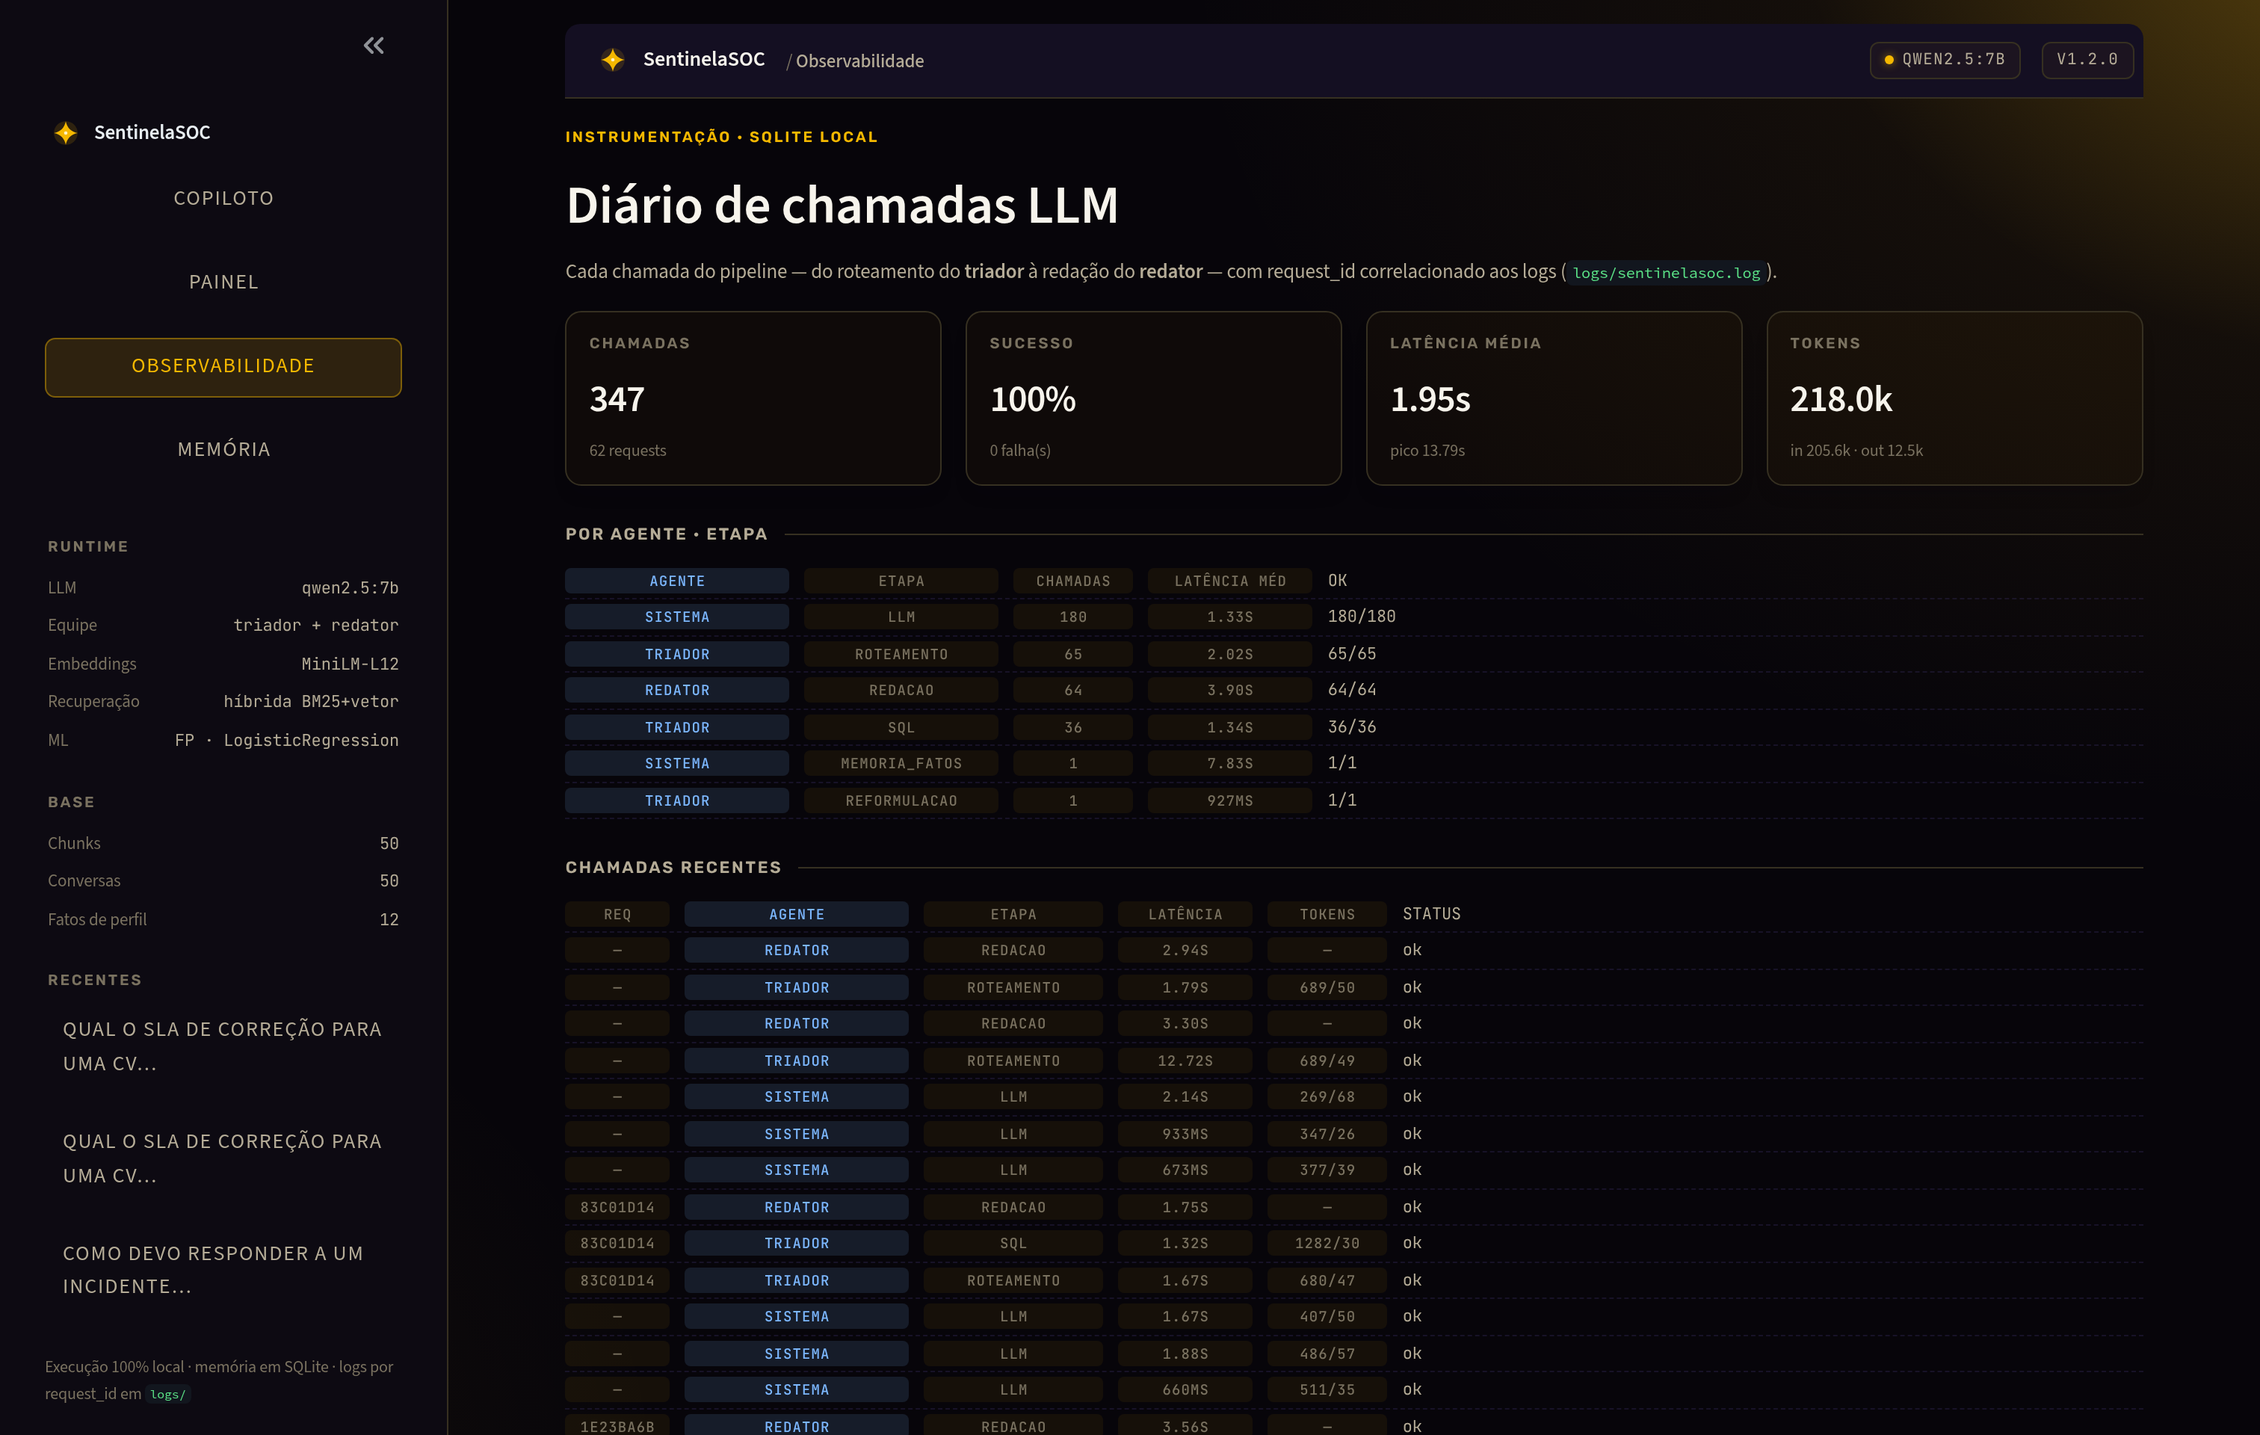
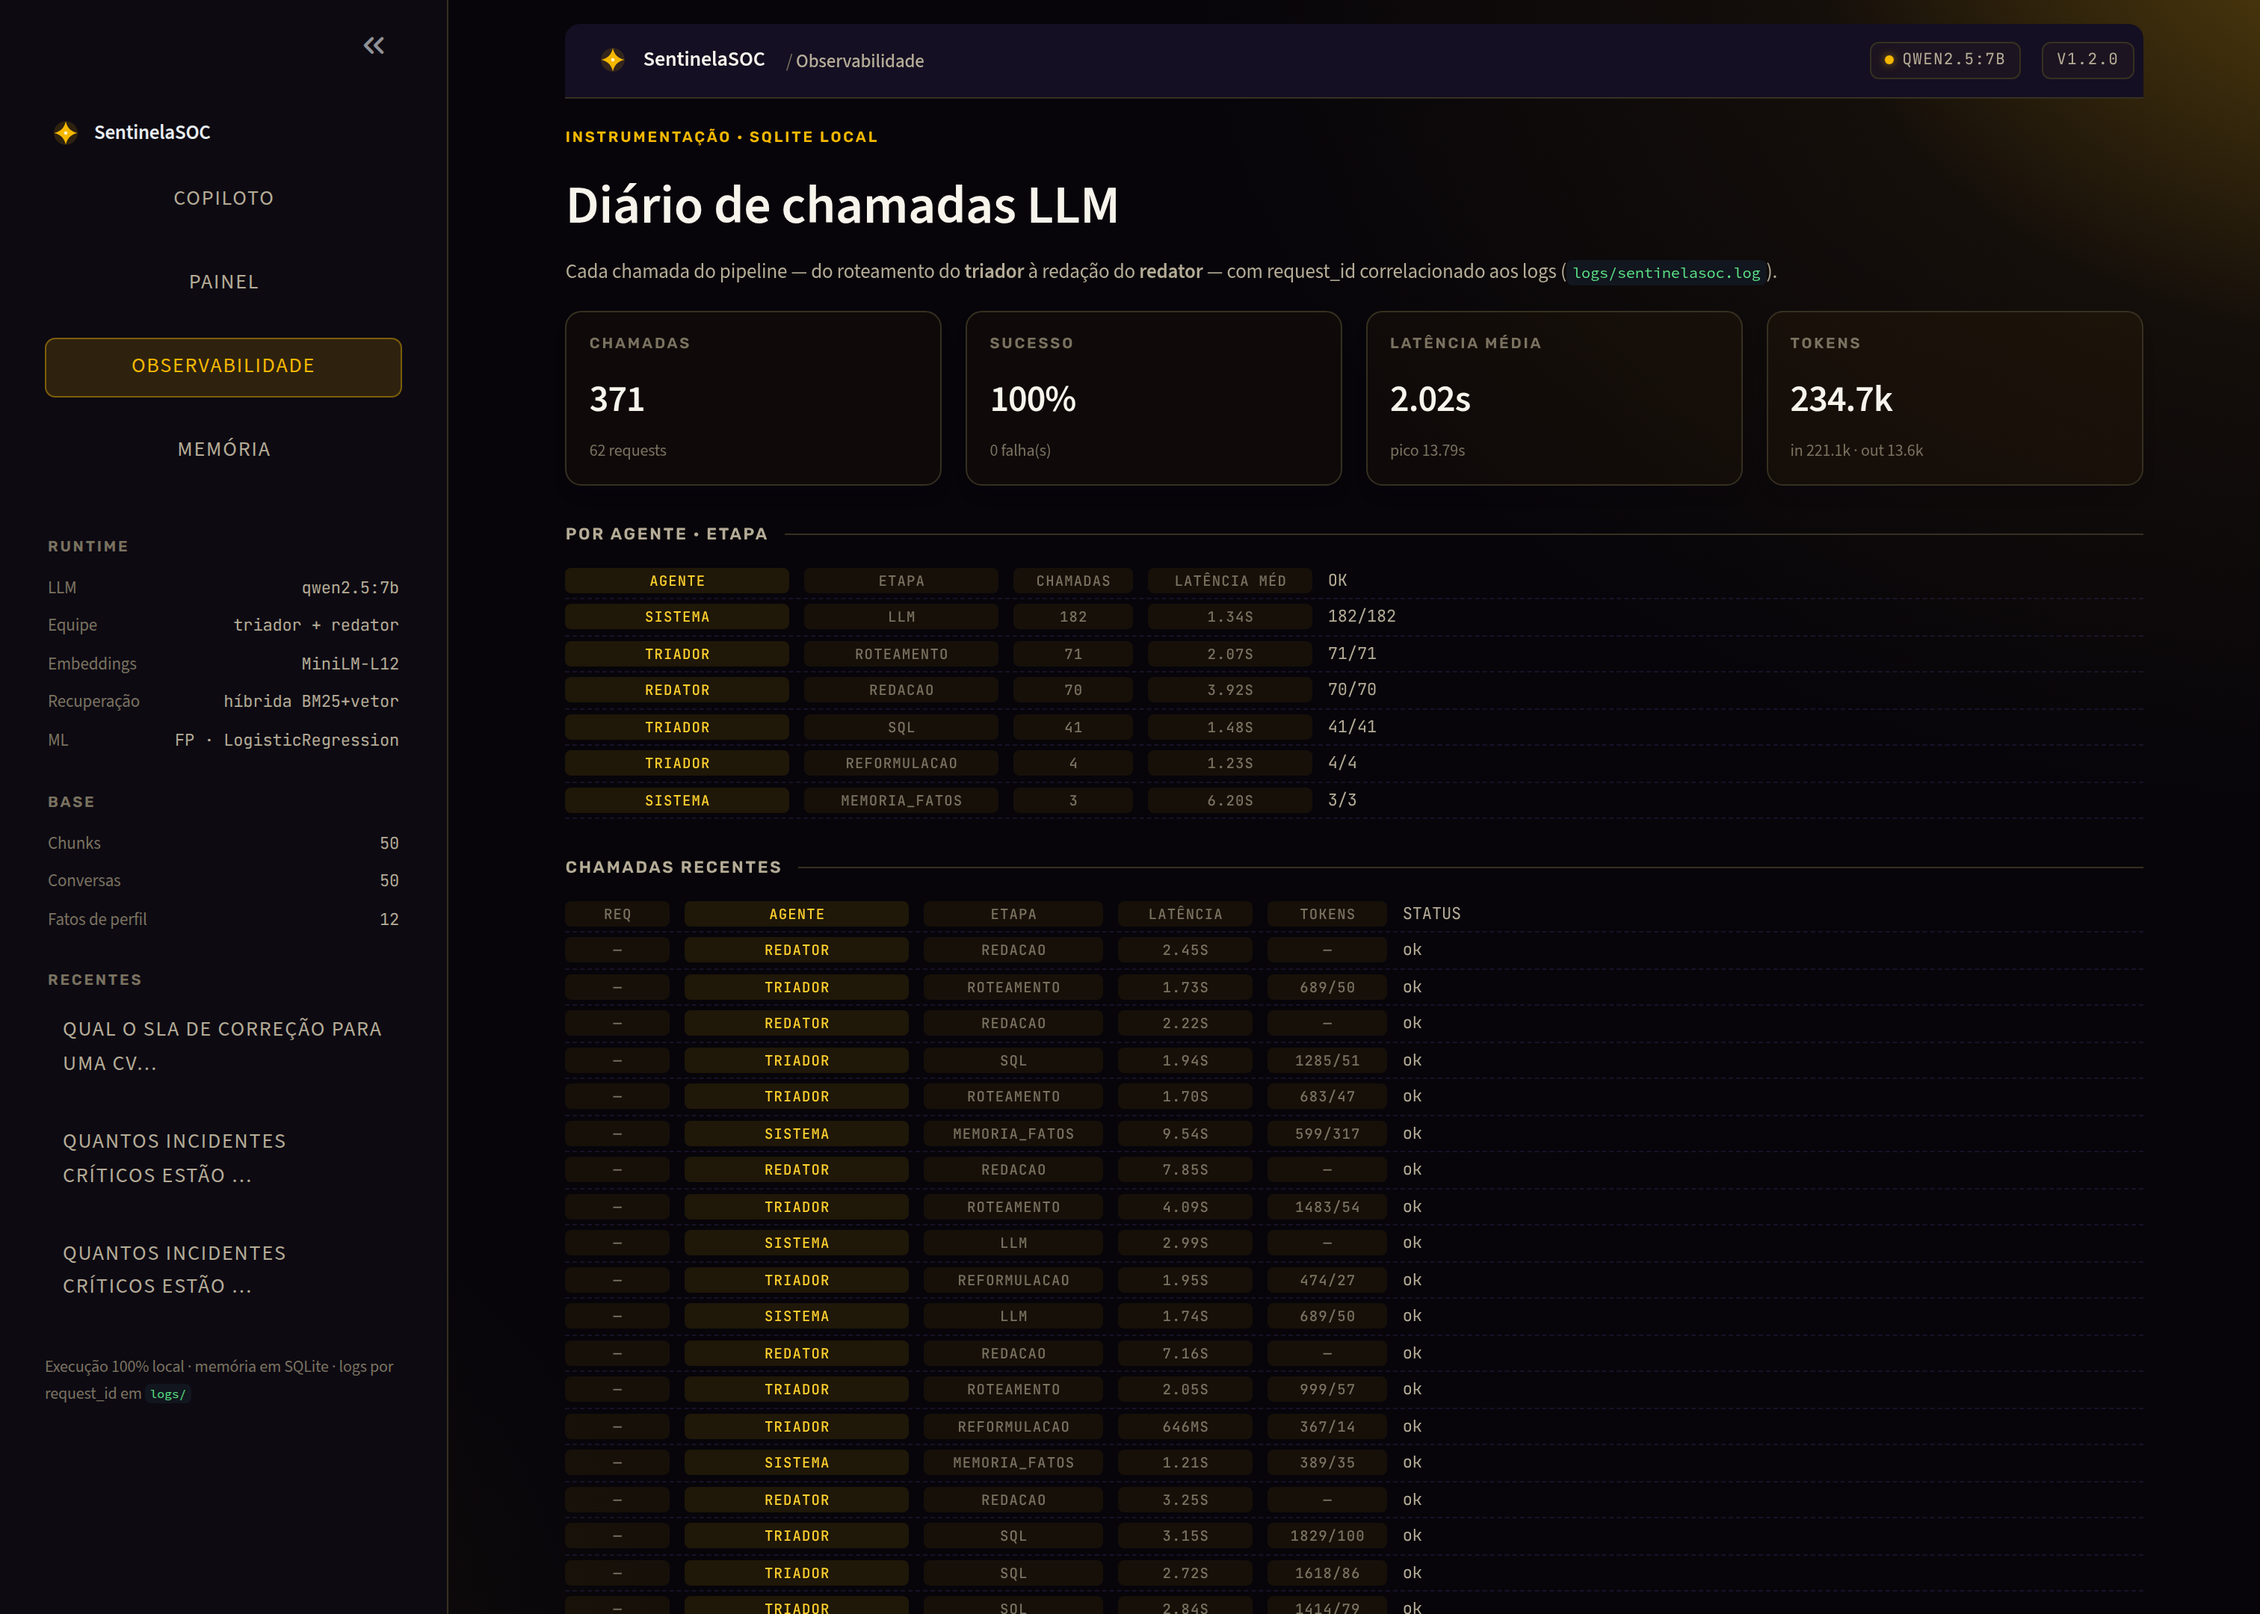
fix(web+assets): per-answer trace ownership, on-brand agent chips, viewport-proven screenshots
- copiloto: AgenteSOC is shared across sessions (cache_resource) — concurrent
  chats raced agente.last_trace, persisting the wrong request's trace in the
  other session. Now the trace list reference is captured right after this
  answer's stream starts and reused for render + persistence.
- shell: tk-agente chips switch from blue to the platform gold family
  (--ouro-hover) — consistent with the SentinelaSOC identity.
- capture_screenshots: screenshots now PROVE the promised elements are inside
  the viewport (bounding-box checks for 'Respondido em', 'Detalhes da
  execução' and the TRIADOR/REDATOR chips) — not merely present in the DOM.
- assets: all three screenshots recaptured (crew trace open, Painel,
  Observabilidade) with the fixes above.

diff --git a/scripts/capture_screenshots.py b/scripts/capture_screenshots.py
@@ -3,9 +3,8 @@
 Uso: ./venv/bin/python scripts/capture_screenshots.py
 Requer: app rodando em http://localhost:8501 e Chrome instalado.
 
-Alem de capturar, ASSERTA que os elementos-chave de cada pagina estao visiveis
-(rastro da crew aberto, painel renderizado, diario com chamadas) — screenshot
-comprovado, nao cego.
+Alem de capturar, PROVA que os elementos-chave estao visiveis no viewport
+(bounding box dentro da area da tela) — screenshot comprovado, nao cego.
 """
 import asyncio
 import sys
@@ -14,10 +13,11 @@ from playwright.async_api import async_playwright
 
 BASE = "http://localhost:8501"
 PERGUNTA = "Qual o SLA de correção para uma CVE com CVSS 9.5 em ativo exposto?"
+LARGURA, ALTURA = 1512, 1080
 
 
 async def capturar(page, caminho: str, deve_conter: list[str]) -> None:
-    """Screenshot + prova textual: todos os textos precisam estar na pagina."""
+    """Screenshot + prova textual (DOM) + prova visual (chips no viewport)."""
     corpo = (await page.content()).lower()
     faltando = [t for t in deve_conter if t.lower() not in corpo]
     if faltando:
@@ -26,11 +26,24 @@ async def capturar(page, caminho: str, deve_conter: list[str]) -> None:
     print(f"ok {caminho} (verificado: {', '.join(deve_conter)})")
 
 
+async def visivel_no_viewport(page, seletor: str, nome: str) -> None:
+    """Garante que o elemento existe, esta renderizado E dentro do viewport."""
+    alvo = page.locator(seletor).first
+    await alvo.wait_for(state="visible", timeout=30_000)
+    caixa = await alvo.bounding_box()
+    if not caixa:
+        raise AssertionError(f"{nome}: sem bounding box")
+    if caixa["y"] < 0 or caixa["y"] + caixa["height"] > ALTURA:
+        fundo = caixa["y"] + caixa["height"]
+        raise AssertionError(f"{nome}: fora do viewport (y={caixa['y']:.0f}, fundo={fundo:.0f})")
+    print(f"visivel no viewport: {nome} (y={caixa['y']:.0f})")
+
+
 async def main() -> None:
     async with async_playwright() as p:
         browser = await p.chromium.launch(channel="chrome", headless=True)
         page = await browser.new_page(
-            viewport={"width": 1512, "height": 960}, device_scale_factor=2
+            viewport={"width": LARGURA, "height": ALTURA}, device_scale_factor=2
         )
 
         # ── 1) Copiloto: pergunta real -> resposta -> rastro da crew aberto ──
@@ -42,14 +55,24 @@ async def main() -> None:
         await page.wait_for_timeout(400)
         await page.keyboard.press("Enter")
         print("pergunta enviada; aguardando resposta do crew...")
-        await page.wait_for_selector("text=Respondido em", timeout=120_000)
+        status = page.locator("text=Respondido em").first
+        await status.wait_for(state="visible", timeout=120_000)
         await page.wait_for_timeout(900)
+        # abre o rastro e rola o ULTIMO chip de agente para dentro da tela
+        # (scroll minimo: status e resumo do expander ficam acima, visiveis)
         expander = page.locator("summary:has-text('Detalhes da execução')").last
         await expander.scroll_into_view_if_needed()
         await expander.click()
         await page.wait_for_timeout(1_200)
-        await page.mouse.wheel(0, 700)
-        await page.wait_for_timeout(800)
+        ultimo_agente = page.locator(".tk-agente").last
+        await ultimo_agente.scroll_into_view_if_needed()
+        await page.wait_for_timeout(900)
+        # prova visual: os tres elementos que o README promete estao NA IMAGEM
+        await visivel_no_viewport(page, "text=Respondido em", "status 'Respondido em'")
+        await visivel_no_viewport(
+            page, "summary:has-text('Detalhes da execução')", "expander 'Detalhes da execução'"
+        )
+        await visivel_no_viewport(page, ".tk-agente", "chip TRIADOR/REDATOR")
         await capturar(
             page,
             "docs/assets/screenshot.png",
@@ -66,6 +89,11 @@ async def main() -> None:
         await page.goto(f"{BASE}/?page=observabilidade", wait_until="domcontentloaded")
         await page.wait_for_selector("text=Diário de chamadas LLM", timeout=60_000)
         await page.wait_for_timeout(1_500)
+        # garante a tabela por agente·etapa dentro da tela
+        painel = page.locator("text=Por agente · etapa")
+        await painel.scroll_into_view_if_needed()
+        await page.wait_for_timeout(600)
+        await visivel_no_viewport(page, ".tk-agente", "coluna agente (Observabilidade)")
         await capturar(
             page,
             "docs/assets/screenshot-observabilidade.png",
@@ -79,6 +107,6 @@ async def main() -> None:
 if __name__ == "__main__":
     try:
         asyncio.run(main())
-    except Exception as exc:  # noqa: BLE001
+    except Exception as exc:
         print(f"FALHOU: {type(exc).__name__}: {exc}", file=sys.stderr)
         sys.exit(1)

diff --git a/src/sentinelasoc/web/copiloto.py b/src/sentinelasoc/web/copiloto.py
@@ -167,8 +167,16 @@ def render() -> None:
             placeholder = st.empty()
             texto = ""
             inicio = time.perf_counter()
+            trace_desta_resposta: list[dict] = []
             try:
+                primeiro = True
                 for chunk in agente.answer(pergunta, history, st.session_state.perfil_fatos):
+                    if primeiro:
+                        # AgenteSOC e compartilhado entre sessoes (cache_resource):
+                        # fixa a referencia do rastro DESTA resposta antes que outra
+                        # sessao concorrente rebinde agente.last_trace.
+                        trace_desta_resposta = agente.last_trace
+                        primeiro = False
                     texto += chunk
                     placeholder.markdown(texto + " ▍", unsafe_allow_html=True)
             except Exception as exc:  # erro visivel para o analista
@@ -185,17 +193,17 @@ def render() -> None:
             )
             placeholder.markdown(texto, unsafe_allow_html=True)
             st.session_state.mensagens.append(
-                {"role": "assistant", "content": texto, "trace": agente.last_trace}
+                {"role": "assistant", "content": texto, "trace": trace_desta_resposta}
             )
             with st.expander("Detalhes da execução", expanded=False):
-                _renderizar_trace(agente.last_trace)
+                _renderizar_trace(trace_desta_resposta)
 
         # persistencia episodica + aprendizado semantico
         if st.session_state.conversa_id is None:
             st.session_state.conversa_id = memory.nova_conversa(pergunta)
         cid = st.session_state.conversa_id
         memory.salvar_mensagem(cid, "user", pergunta)
-        memory.salvar_mensagem(cid, "assistant", texto, agente.last_trace)
+        memory.salvar_mensagem(cid, "assistant", texto, trace_desta_resposta)
         if memory.contar_trocas(cid) % 2 == 0:
             fatos = agente.extrair_fatos(pergunta, texto)
             if fatos and memory.atualizar_fatos(fatos):

diff --git a/src/sentinelasoc/web/shell.py b/src/sentinelasoc/web/shell.py
@@ -208,7 +208,7 @@ div[data-testid="stChatInput"] {border: none; background: transparent;}
 .tk-ctx {background: rgba(124,183,255,.12); color: var(--azul);}
 .tk-retry {background: rgba(255,178,135,.14); color: var(--coral);}
 .tk-erro {background: rgba(250,127,170,.14); color: var(--rosa);}
-.tk-agente {background: rgba(124,183,255,.13); color: var(--azul);}
+.tk-agente {background: rgba(245,184,0,.10); color: var(--ouro-hover);}
 .tk-meta {background: var(--surface-2); color: var(--text-3);}
 .trace-row .v {color: var(--text-2); word-break: break-word; line-height: 1.5;}
 
